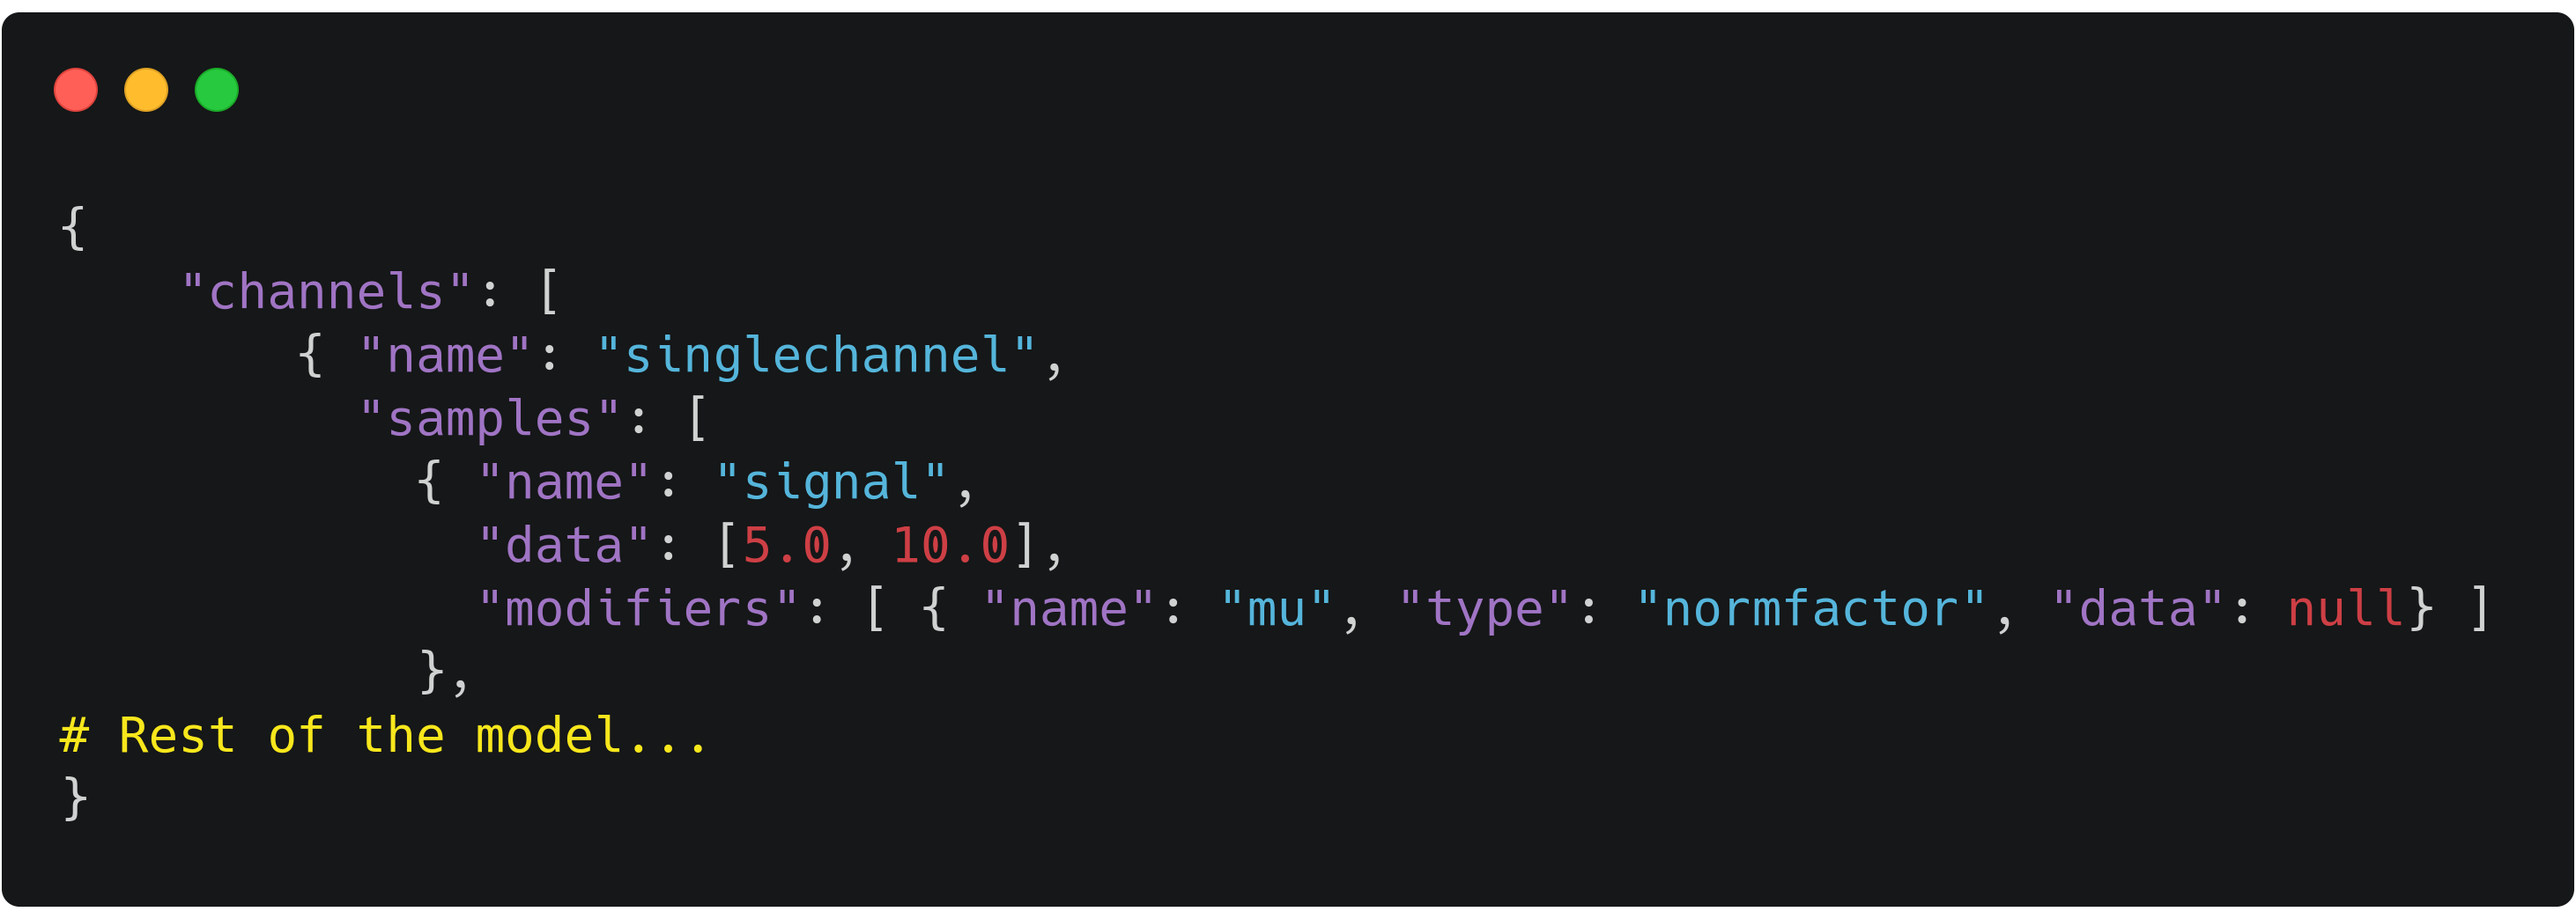
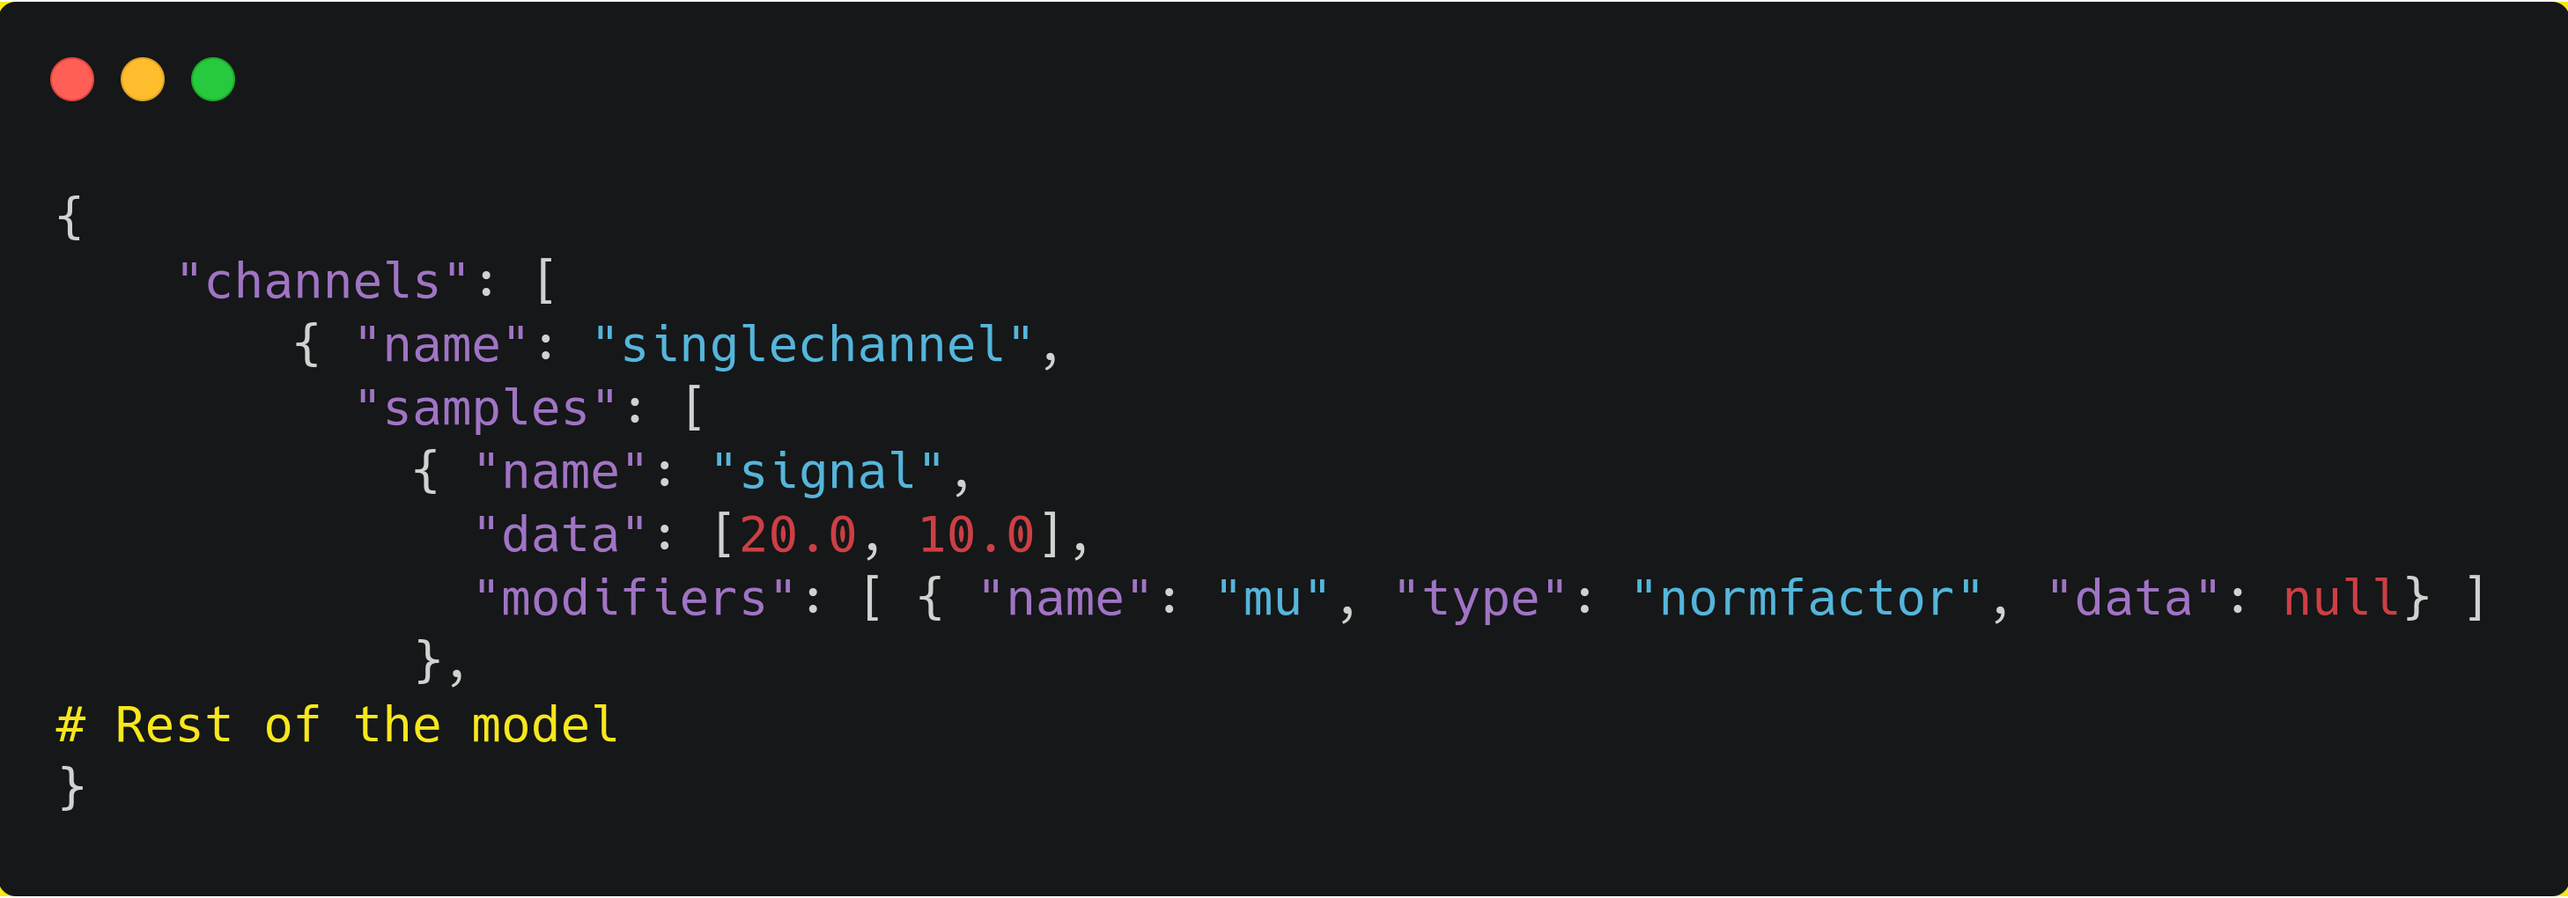
Update numbers in Carbon images

diff --git a/talk.md b/talk.md
@@ -248,19 +248,19 @@ Backup
 
 ```
 $ pyhf cls example.json | jq .CLs_obs
-0.3599845631401913
+0.053994246621274014
 ```
 ```
 $ cat new_signal.json
 [{
     "op": "replace",
     "path": "/channels/0/samples/0/data",
-    "value": [5.0, 6.0]
+    "value": [10.0, 6.0]
 }]
 ```
 ```
 $ pyhf cls example.json --patch new_signal.json | jq .CLs_obs
-0.4764263982925686
+0.3536906623262466
 ```
 
 ---
